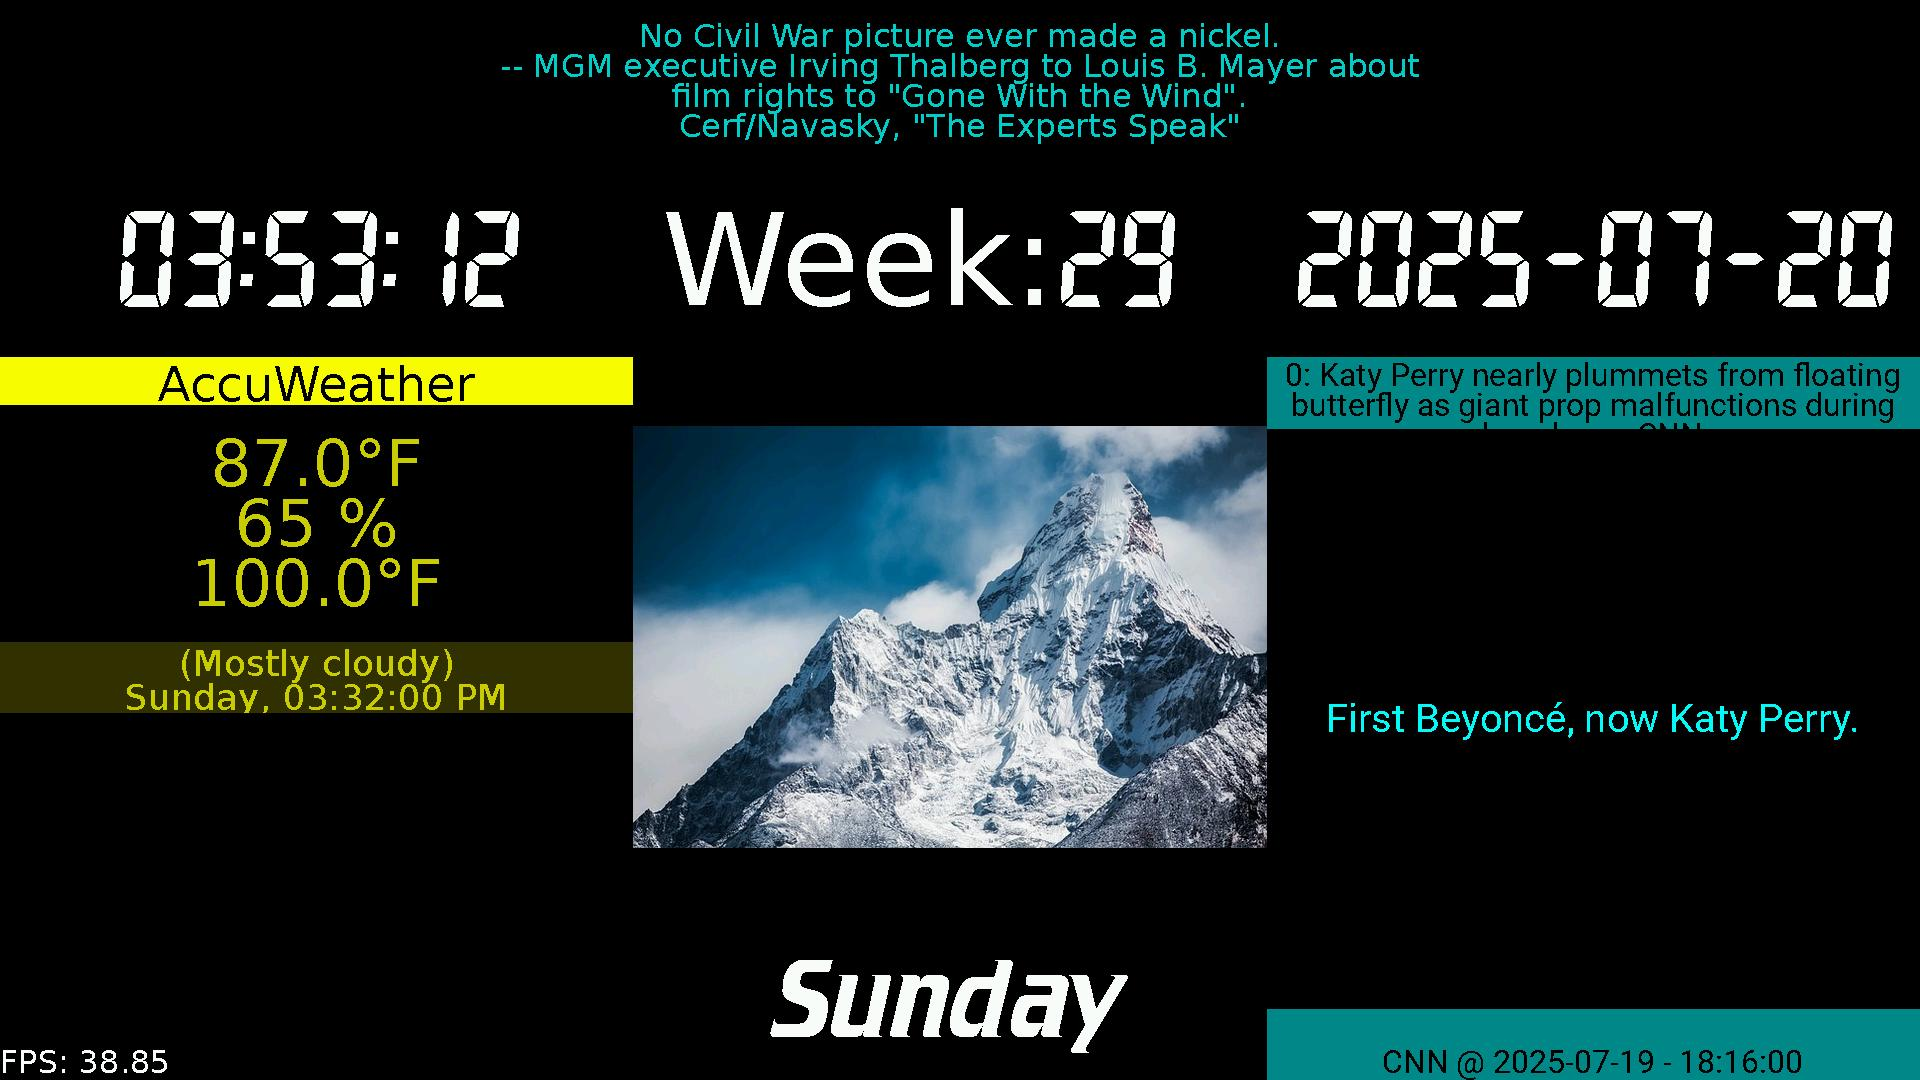
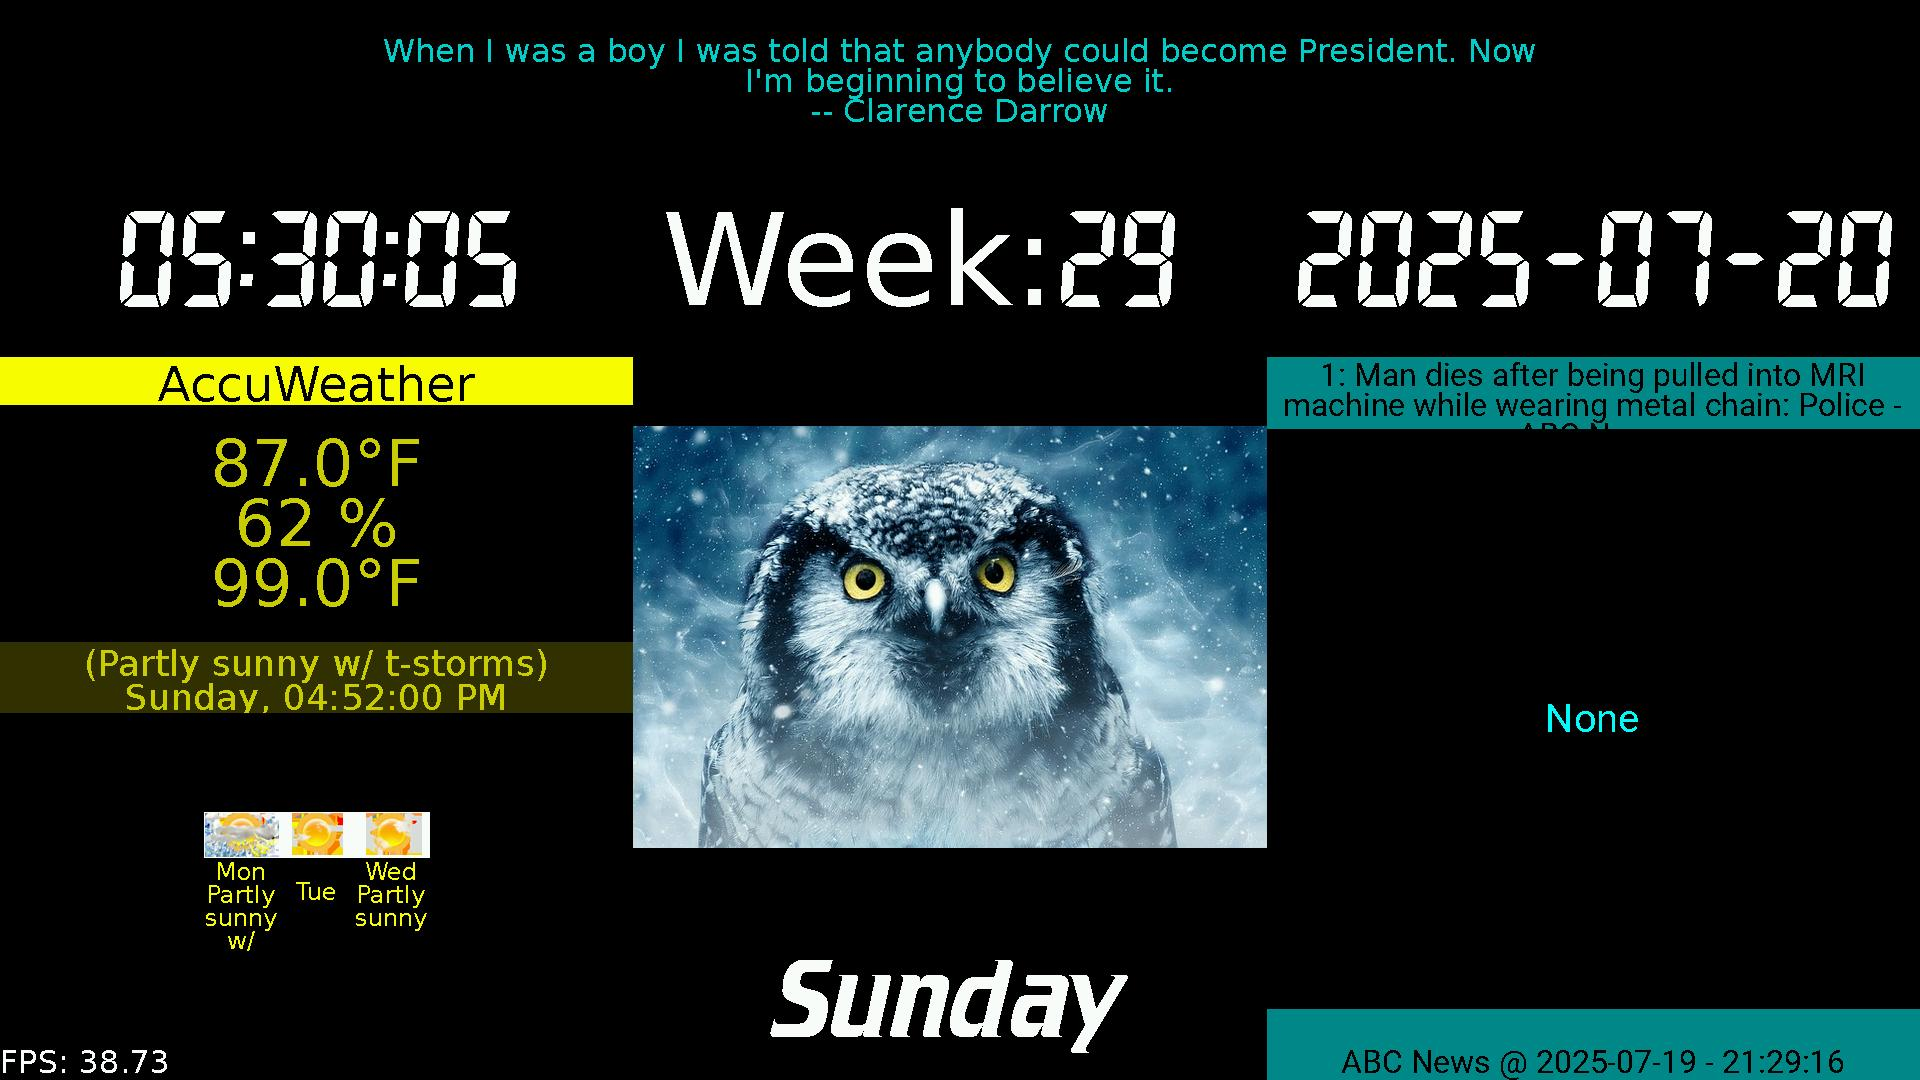
adding forecast for accuweather

diff --git a/src/modules/weather_apis/accuweather.py b/src/modules/weather_apis/accuweather.py
@@ -1,6 +1,8 @@
 from dataclasses import dataclass
 from datetime import datetime
 from logging import config
+
+from flask import json
 from pymirror.pmwebapi import PMWebApi
 from pymirror.utils import SafeNamespace
 from .pmweatherdata import PMWeatherAlert, PMWeatherCurrent, PMWeatherDaily, PMWeatherData, PMWeatherSummary
@@ -17,9 +19,18 @@ class AccuWeatherParams:
 class AccuWeatherConfig:
     name: str = "AccuWeather"
     url: str = "http://dataservice.accuweather.com/currentconditions/v1/"
-    cache_file: str  = "./caches/weather.json"
+    forecast_url: str = "http://dataservice.accuweather.com/forecasts/v1/daily/5day/"
+    cache_file: str  = "./caches/accuweather.json"
     cache_timeout_secs: int = 3600  # Default cache timeout in seconds
 
+@dataclass
+class AccuWeatherForecastConfig:
+    name: str = "AccuWeather"
+    url: str = "http://dataservice.accuweather.com/forecasts/v1/daily/5day"
+    cache_file: str  = "./caches/accuweather_forecast.json"
+    cache_timeout_secs: int = 3600  # Default cache timeout in seconds
+
+@dataclass
 class AccuWeatherLocationConfig:
     name: str = "AccuWeather Location"
     url: str = "http://dataservice.accuweather.com/locations/v1/cities/geoposition/search"
@@ -37,13 +48,45 @@ class AccuWeatherApi(PMWebApi):
         print(f"AccuWeatherApi initialized with params: {config}")
         self.params = AccuWeatherParams(**config.__dict__)
         self.location_key = None
-    
+
+    def _to_daily(self, r, f, d):        
+        return {
+            "dt": f.EpochDate,
+            "summary": f.Day.IconPhrase,
+            "temp": {
+                "day": (f.Temperature.Minimum.Value + f.Temperature.Maximum.Value) / 2,
+                "min": f.Temperature.Minimum.Value,
+                "max": f.Temperature.Maximum.Value,
+                "night": f.Temperature.Maximum.Value,
+                "eve": f.Temperature.Maximum.Value,
+                "morn": f.Temperature.Minimum.Value,
+            },
+            "feels_like": {
+                "day": (f.Temperature.Minimum.Value + f.Temperature.Maximum.Value) / 2,
+                "night": f.Temperature.Maximum.Value,
+                "eve": f.Temperature.Maximum.Value,
+                "morn": f.Temperature.Minimum.Value,
+            },
+            "pressure": d["pressure"],
+            "humidity": d["humidity"],
+            "dew_point": d["dew_point"],
+            "wind_speed": d["wind_speed"],
+            "wind_deg": d["wind_deg"],
+            "wind_gust": d["wind_gust"],
+            "weather": [PMWeatherSummary(id=1, main=f.Day.IconPhrase, description=f.Day.IconPhrase, icon=f"{f.Day.Icon:02d}-s").__dict__],
+            "clouds": r.CloudCover,
+            "pop": 0.0,
+            "rain": 0.0,
+            "uvi": d["uvi"]
+        }
+
     def get_weather_data(self, params = None) -> PMWeatherData:
         """
         Fetches weather data from the AccuWeather API.
         If params are provided, they will be used in the request.
         """
         self.get_location_data() ## get the location key if not already set
+        self.get_forecast_data() ## get the forecast data if not already set
         params = {
             "_resource_id": self.location_key,
             "apikey": self.params.apikey,
@@ -68,45 +111,17 @@ class AccuWeatherApi(PMWebApi):
             "wind_deg":  r.Wind.Direction.Degrees,
             "wind_gust":  r.WindGust.Speed[units].Value
         }
-        d = {
-            "dt": int(r.EpochTime),
-            "summary": r.WeatherText,
-            "temp": {
-                "day": c["temp"],
-                "min": c["temp"],
-                "max": c["temp"],
-                "night": c["temp"],
-                "eve": c["temp"],
-                "morn": c["temp"]
-            },
-            "feels_like": {
-                "day": c["feels_like"],
-                "night": c["feels_like"],
-                "eve": c["feels_like"],
-                "morn": c["feels_like"]
-            },
-            "pressure": c["pressure"],
-            "humidity": c["humidity"],
-            "dew_point": c["dew_point"],
-            "wind_speed": c["wind_speed"],
-            "wind_deg": c["wind_deg"],
-            "wind_gust": c["wind_gust"],
-            "weather": [PMWeatherSummary(id=1, main=r.WeatherText, description=r.WeatherText, icon="").__dict__],
-            "clouds": r.CloudCover,
-            "pop": 0.0,
-            "rain": 0.0,
-            "uvi": c["uvi"]
-        }
+        f = [self._to_daily(r, f, c) for f in self.forecast_data.DailyForecasts if f.EpochDate >= r.EpochTime]
         w = {
             "lat": float(self.params.lat),
             "lon":  float(self.params.lon),
             "timezone": self.location_data.TimeZone.Name,
             "timezone_offset": self.location_data.TimeZone.GmtOffset * 3600,
             "current":  c,
-            "daily":  [d],
+            "daily":  f,
             "alerts": None
         }
-        print(f"AccuWeatherApi response: {w}")
+        print(f"AccuWeatherApi response: {json.dumps(w, indent=2)}")
         weather = PMWeatherData.from_dict(w)
         return weather
 
@@ -124,3 +139,17 @@ class AccuWeatherApi(PMWebApi):
         self.location_key = location_data["Key"]
         print(f"AccuWeather location key: {self.location_key}")
         return self.location_key
+
+    def get_forecast_data(self) -> str:
+        config = AccuWeatherForecastConfig()
+        forecast_api = PMWebApi(config.url, config.cache_file, config.cache_timeout_secs)
+        forecast_data = forecast_api.get_json({
+            "_resource_id": self.location_key,
+            "apikey": self.params.apikey,
+            "details": True,
+            "language": self.params.language,
+            "metric": self.params.units.lower() == "metric"
+        })
+        self.forecast_data = SafeNamespace(**forecast_data)
+        print(f"AccuWeather forecast_data: {self.forecast_data}")
+        return self.forecast_data
